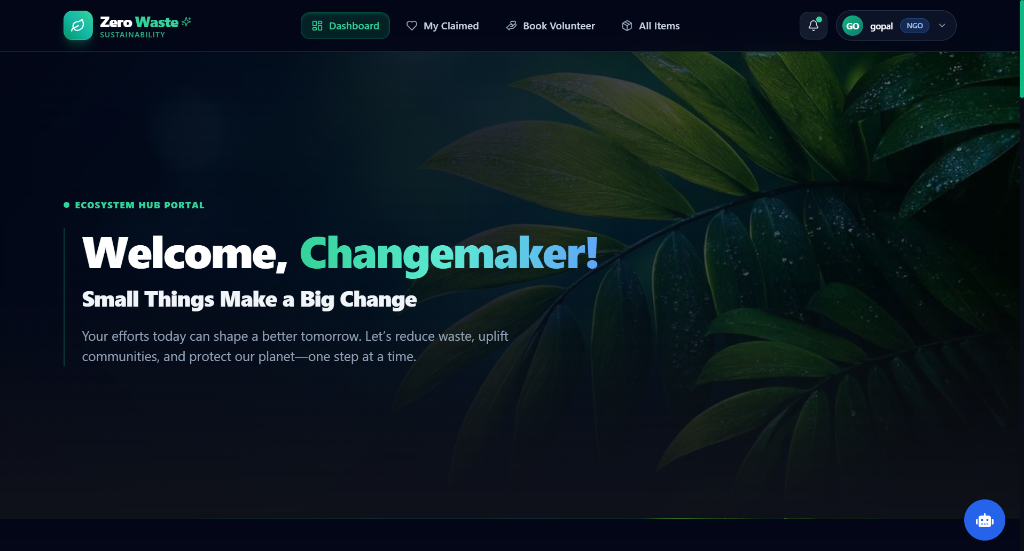
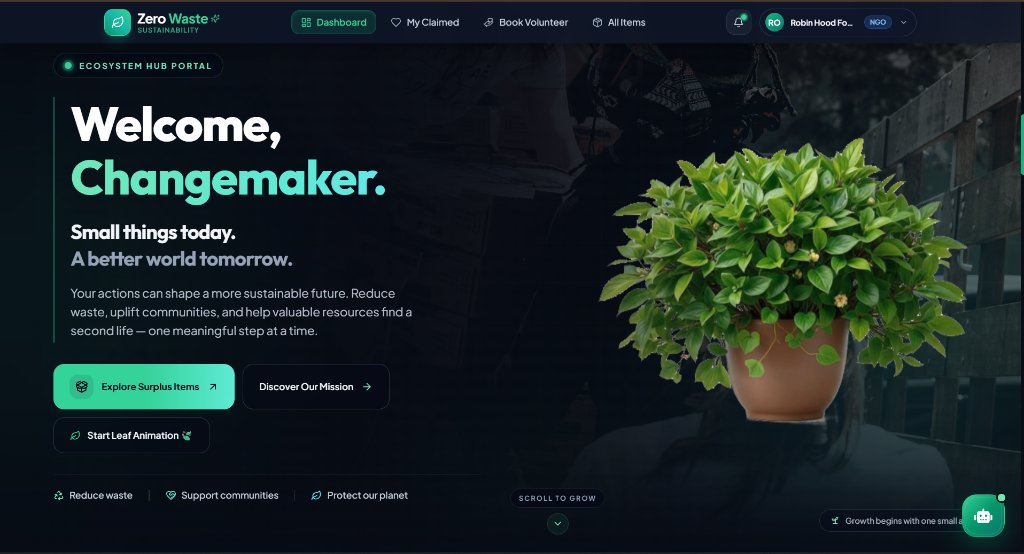
docs: showcase live vendor, NGO, and volunteer dashboards in README

diff --git a/README.md b/README.md
@@ -47,23 +47,55 @@ To test all three stakeholder perspectives immediately without registration fric
 
 ---
 
+## 🖥 Live Stakeholder Dashboards
+
+ZeroWaste provides tailored, purpose-built operational interfaces for all three primary ecosystem participants:
+
+### 1. 👨🍳 Food Donor & Vendor Portal (`VendorDashboard.jsx`)
+*Supplier Operations Hub enabling food businesses (restaurants, bakeries, caterers) to publish surplus listings, review real-time FSSAI food-safety scores, inspect AI vision auto-filled items, and generate monthly ESG impact certificates.*
+
+<p align="center">
+  <img src="screenshots/vendor-dashboard.png" alt="ZeroWaste Food Donor & Vendor Operations Hub" width="900" />
+</p>
+
+---
+
+### 2. 🏢 NGO & Shelter Ecosystem Hub (`NgoDashboard.jsx`)
+*Ecosystem Operations Hub for verified hunger-relief organizations to discover smart-matched surplus feeds, execute 1-click atomic compare-and-swap claims, schedule volunteer dispatch, and interact with the 60 FPS scroll-driven plant growth canvas.*
+
+<p align="center">
+  <img src="screenshots/ngo-dashboard.png" alt="ZeroWaste NGO & Shelter Operations Hub" width="900" />
+</p>
+
+---
+
+### 3. 🚴 Hero Volunteer Operations Center (`Volunteerdashboard.jsx`)
+*Delivery Logistics Center where volunteer couriers review freight dispatch tasks, inspect 2-Opt TSP optimized delivery routes, confirm donor pickups, and complete handoffs via dual-phase OTP verification.*
+
+<p align="center">
+  <img src="screenshots/volunteer-dashboard.png" alt="ZeroWaste Volunteer Delivery Operations Center" width="900" />
+</p>
+
+---
+
 ## 📋 Table of Contents
-1. [Hard Engineering & Algorithmic Highlights](#-hard-engineering--algorithmic-highlights)
-2. [Agentic AI & FSSAI Compliance (LangGraph)](#-agentic-ai--fssai-compliance-langgraph)
-3. [Verified Ecological Accounting](#-verified-ecological-accounting)
-4. [System Architecture & Lifecycle State Machine](#-system-architecture--lifecycle-state-machine)
+1. [Live Stakeholder Dashboards](#-live-stakeholder-dashboards)
+2. [Hard Engineering & Algorithmic Highlights](#-hard-engineering--algorithmic-highlights)
+3. [Agentic AI & FSSAI Compliance (LangGraph)](#-agentic-ai--fssai-compliance-langgraph)
+4. [Verified Ecological Accounting](#-verified-ecological-accounting)
+5. [System Architecture & Lifecycle State Machine](#-system-architecture--lifecycle-state-machine)
    - [High-Level Multi-Tier Architecture](#1-high-level-multi-tier-architecture)
    - [Surplus Donation & OTP Verification Flow](#2-surplus-donation--otp-verification-flow)
    - [Real-Time WebSocket & Messaging Architecture](#3-real-time-websocket--messaging-architecture)
    - [Database Entity-Relationship (ER) Diagram](#4-database-entity-relationship-er-diagram)
    - [Repository Directory Structure](#5-repository-directory-structure)
    - [Frontend 60 FPS Pipelines & Audio Synthesis](#6-frontend-60-fps-pipelines--audio-synthesis)
-5. [Performance & Web Vitals Audit](#-performance--web-vitals-audit)
-6. [Known Limitations & Engineering Trade-offs](#-known-limitations--engineering-trade-offs)
-7. [API Specifications](#-api-specifications)
-8. [Testing & CI Pipeline](#-testing--ci-pipeline)
-9. [Local Development Setup](#-local-development-setup)
-10. [Architecture Decision Records (ADRs)](#-architecture-decision-records-adrs)
+6. [Performance & Web Vitals Audit](#-performance--web-vitals-audit)
+7. [Known Limitations & Engineering Trade-offs](#-known-limitations--engineering-trade-offs)
+8. [API Specifications](#-api-specifications)
+9. [Testing & CI Pipeline](#-testing--ci-pipeline)
+10. [Local Development Setup](#-local-development-setup)
+11. [Architecture Decision Records (ADRs)](#-architecture-decision-records-adrs)
 
 ---
 
